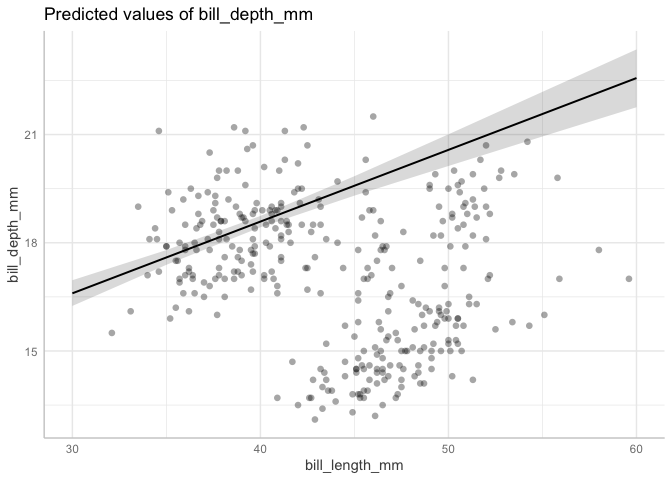
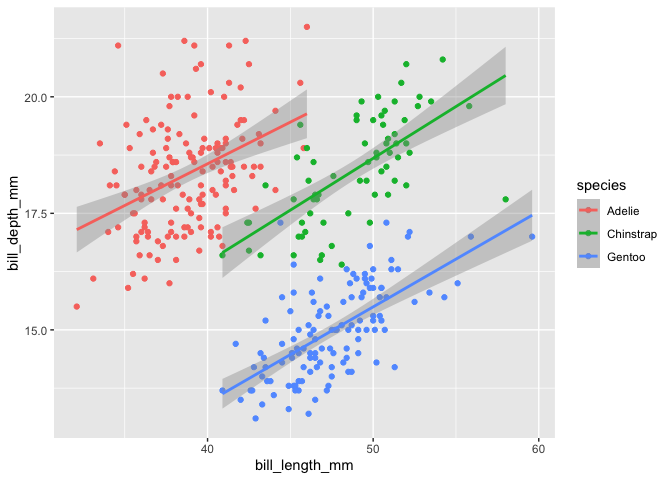
Added slope interpretations/comparisons between models

diff --git a/README.md b/README.md
@@ -201,6 +201,9 @@ Look at the output from the code you just ran.
 (Need to make a point about geom_smooth() only graphing interactive
 models by default)
 
+Now it’s time to get into multiple regression. In particular, we are
+going to use additive multiple regression.
+
 Let’s start by plotting a new set of variables. Now we’re asking: are
 bill length and bill depth associated among the penguins in the dataset?
 
@@ -211,12 +214,15 @@ penguins %>%
   ggplot(aes(x = bill_length_mm,
              y = bill_depth_mm)) +
   geom_point() +
+  # Let's add in a basic lm just to visualize
   geom_smooth(method = "lm")
 ```
 
 ![](README_files/figure-commonmark/unnamed-chunk-8-1.png)
 
 ### Run a normal univariate model
+
+Now let’s run a normal univariate model with these two variables:
 
 ``` r
 # flipper length by body mass model
@@ -263,25 +269,36 @@ summary(m.depth.length)
     and Tail_ESS are effective sample size measures, and Rhat is the potential
     scale reduction factor on split chains (at convergence, Rhat = 1).
 
-### Q1.4 Write a couple results sentences with your conclusions about whether bill length is associated with bill depth given this model
+``` r
+plot(m.depth.length)
+```
+
+![](README_files/figure-commonmark/unnamed-chunk-11-1.png)
+
+The Rhat, posterior distributions, and chains look good, so we can say
+that our model ran well.
+
+------------------------------------------------------------------------
+
+### Q1.4 Write a couple results sentences with your conclusions about whether bill length is associated with bill depth given this model. Include the estimate for the slope and it’s biological interpretation, as well as whether or not this slope seems different from zero (and why you think that).
 
 ------------------------------------------------------------------------
 
 ### Run the same model with species as a second predictor
 
-From our past experience, we know that there’s more to this penguin
-story. In fact, there are three separate species of penguins here. Let’s
-modify our question to be:
+Time to do multiple regression!! From our past experience, we know that
+there’s more to this penguin story. In fact, there are three separate
+species of penguins here. Let’s modify our question to be:
 
 Are bill length and bill depth associated among the penguins in the
 dataset, and does bill depth differ with penguin species?
 
 To answer this question, we need to turn to multiple regression, where
-we will add in species as a variable to our model. Let’s do that
-straight away. We are simply going to add in the species column to our
+we will add in `species` as a variable to our model. Let’s do that
+straight away. We are simply going to add in the `species` column to our
 model from above. We are also going to change the “intercept” to 0; this
 will allow for a bit easier of interpretation of the effect of the
-categorical variable of species.
+categorical variable of `species.`
 
 ``` r
 # flipper length by body mass model
@@ -302,10 +319,12 @@ m.depth.length.species <-
       file = "output/m.depth.length.species")
 ```
 
+------------------------------------------------------------------------
+
 ### Q1.5 Assess the model: did it run correctly?
 
-Assess the model using Rhat, the posterior distributions, and plot of
-chains: did it run well?
+Assess the model using Rhat, the posterior distributions, and the plot
+of chains: did it run well?
 
 ``` r
 summary(m.depth.length.species)
@@ -337,7 +356,9 @@ summary(m.depth.length.species)
 plot(m.depth.length.species)
 ```
 
-![](README_files/figure-commonmark/unnamed-chunk-13-1.png)
+![](README_files/figure-commonmark/unnamed-chunk-14-1.png)
+
+------------------------------------------------------------------------
 
 ### Interpret an additive model
 
@@ -370,16 +391,21 @@ summary(m.depth.length.species)
     and Tail_ESS are effective sample size measures, and Rhat is the potential
     scale reduction factor on split chains (at convergence, Rhat = 1).
 
+------------------------------------------------------------------------
+
+#### The effect of species
+
 You’ll notice that added to the table is not a single “Species”
 coefficient estimate, but three coefficient estimates: one for each
-factor in our `species` column. Our model is a model of bill depth \~
-bill length with *three separate intercepts*, one for each of the three
-species. We haven’t really talked about intercepts in the activities,
-but intercepts are the y-value when the x-value equals zero. This isn’t
-super biologically meaningful in that sense (because the bill width of a
-penguin will almost certainly not be 10.65 when the bill length equals
-0…), BUT, in an additive model, it tells us the relative differences
-between the different factor levels. In other words, it tells us the
+factor in our `species` column. Our model is a model of
+`bill depth ~ bill length` with *three separate intercepts*, one for
+each of the three species. We haven’t really talked about intercepts in
+the activities, but intercepts are the y-value when the x-value equals
+zero. This isn’t super biologically meaningful in that sense (because
+the bill width of a penguin will almost certainly not be 10.65 when the
+bill length equals 0…), BUT, in an additive model, it tells us the
+relative differences between the different factor levels across all
+values of your other variable. In other words, it tells us the
 differences in bill width between species.
 
 For instance, the value for Gentoo is 5.55, for Chinstrap it’s 8.73, and
@@ -400,14 +426,28 @@ penguins %>%
   geom_smooth(method = "lm")
 ```
 
-![](README_files/figure-commonmark/unnamed-chunk-15-1.png)
+![](README_files/figure-commonmark/unnamed-chunk-16-1.png)
 
-``` r
-penguins$species %>% unique()
-```
+#### Q1.6 Visually measure differences in bill depth between species
 
-    [1] Adelie    Gentoo    Chinstrap
-    Levels: Adelie Chinstrap Gentoo
+Visually measure differences in bill depth between species; choose a
+region of the x-axis which has data for all three species (e.g. around
+45mm). Estimate the difference in bill depth (the y-axis) between a)
+Adelie and Chinstrap and b) Adelie and Gentoo. Are those differences
+consistent with the differences that we calculated from the model?
+
+------------------------------------------------------------------------
+
+#### The effect of bill length
+
+Now let’s move on to interpreting the slope, which in this case is the
+effect of `bill length`.
+
+The model output gave us a slope estimate of 0.20, which we interpret as
+for every 1mm of bill length, bill depth increases by 0.20mm. The 95%
+credible intervals are between 0.16 and 0.23, indicating that we can be
+confident that zero is not consistent with our model’s estimate of
+slope.
 
 ``` r
 # compatibility interval. the shows uncertainty in the average response.
@@ -454,12 +494,12 @@ plot(confm.depth.length.species, show_data = TRUE)
 
     $bill_length_mm
 
-![](README_files/figure-commonmark/unnamed-chunk-16-1.png)
+![](README_files/figure-commonmark/unnamed-chunk-17-1.png)
 
 
     $species
 
-![](README_files/figure-commonmark/unnamed-chunk-16-2.png)
+![](README_files/figure-commonmark/unnamed-chunk-17-2.png)
 
 ``` r
 # prediction interval. this shows uncertainty in the data around the average response.
@@ -469,14 +509,27 @@ plot(confm.depth.length.species, show_data = TRUE)
 
     $bill_length_mm
 
-![](README_files/figure-commonmark/unnamed-chunk-17-1.png)
+![](README_files/figure-commonmark/unnamed-chunk-18-1.png)
 
 
     $species
 
-![](README_files/figure-commonmark/unnamed-chunk-17-2.png)
+![](README_files/figure-commonmark/unnamed-chunk-18-2.png)
 
-### Q1.X Describe how your conclusions changed between running
+### Q1.6 Describe how your conclusions changed between running the univariate regression and the multiple regression
+
+How did adding `species` change the results of our model? Fill in the
+blanks and add a couple sentences at the end explaining how your
+interpretation of the effect of `bill length` on `bill depth` changed
+upon adding `species`.
+
+*The results from the univariate regression of
+`bill depth ~ bill length` indicate that the effect of bill length on
+bill depth was a change of \_\_\_\_mm of bill depth for every 1mm of
+bill length. When we add in `species`, the results from the multivariate
+regression of `bill depth ~ bill length + species` indicate that the
+effect of bill length on bill depth was a change of \_\_\_\_mm of bill
+depth for every 1mm of bill length.*
 
 ------------------------------------------------------------------------
 
